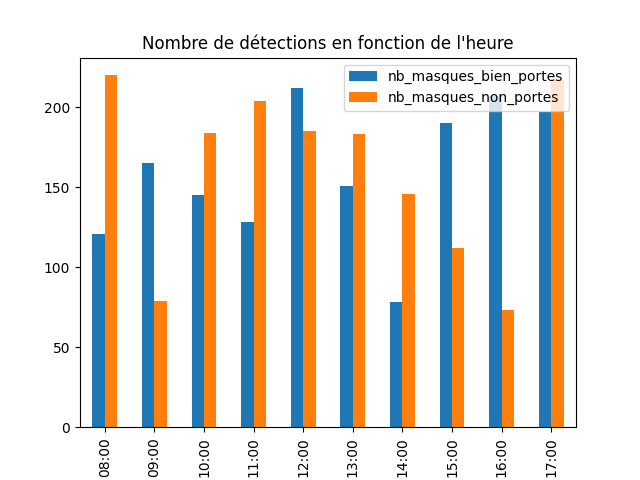
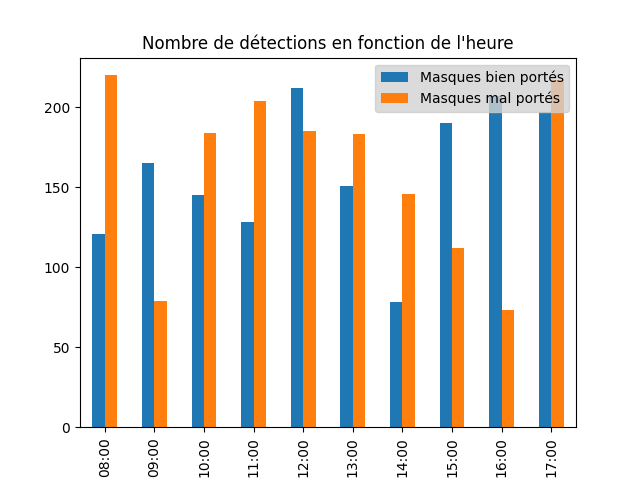
/

Changed region(s): [[0.5312, 0.125, 0.9062, 0.25]]

diff --git a/exemple_programe/plot.py b/exemple_programe/plot.py
@@ -4,13 +4,13 @@ from pathlib import Path
 from matplotlib.pyplot import pie, axis, show, figure
 from pandas.core.frame import DataFrame
 
-Path(r"exemple_programe\stat_CS\donnee.csv").stat()
-file_size =Path(r"exemple_programe\stat_CS\donnee.csv").stat().st_size
+Path(r"exemple_programe/stat_CS/donnee.csv").stat()
+file_size =Path(r"exemple_programe/stat_CS/donnee.csv").stat().st_size
 print("The file size is:", file_size,"bytes")
 
 if file_size > 100 : 
 
-    path = ("exemple_programe\stat_CS\donnee.csv")
+    path = ("exemple_programe/stat_CS/donnee.csv")
     df = pd.read_csv(path,sep=';',index_col=1)
     dp = df[['Somme_avec_masques','Somme_non_masques']].iloc[[0]]
 
@@ -40,15 +40,15 @@ if file_size > 100 :
     hours = hours[['nb_masques_bien_portes','nb_masques_non_portes']]
     hours.plot.bar()
     plt.title("Nombre de détections en fonction de l'heure")
-    plt.savefig("app/resources/Histogram")
     plt.legend(["Masques bien portés","Masques mal portés"],loc = "upper right", facecolor = "lightgray")
+    plt.savefig("app/resources/Histogram")
     plt.show()
 
     #On sait que 1 octet = 8 bytes 
 
     if file_size > pow(10,9) : 
         dc = DataFrame(columns=['Date','Heures','nb_masques_bien_portes','nb_masques_non_portes','Somme_avec_masques','Somme_non_masques'])
-        dc.to_csv(r"exemple_programe\stat_CS\donnee.csv",  index = False, sep=';', encoding='utf-8')
+        dc.to_csv(r"exemple_programe/stat_CS/donnee.csv",  index = False, sep=';', encoding='utf-8')
         print("Fichier CSV écrasé")
 
 else : 
